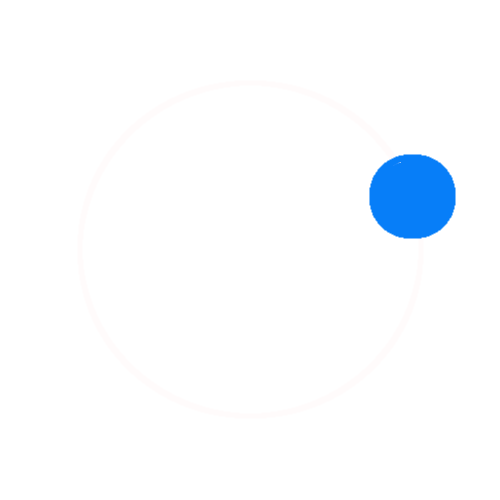
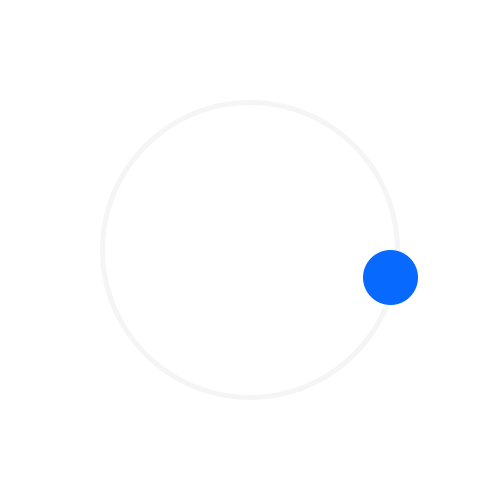
solar system animation.

Changed region(s): [[0.72, 0.3, 0.93, 0.63]]

diff --git a/client/css/all_css.css b/client/css/all_css.css
@@ -103,7 +103,7 @@ p.terminal-text {
 #showoff {
 	height: 100%;
 	width: 100%;
-	box-shadow: 60px 60px 60px 60px #00d2ff; 
+	box-shadow: 60px 60px 60px 60px #00d2ff;
 	border: 2px solid #00d2ff;
 }
 
@@ -118,10 +118,10 @@ p.terminal-text {
 @keyframes floating {
     from { transform: translate(0,  0px); }
     65%  { transform: translate(0, 15px); }
-    to   { transform: translate(0, -0px); }    
+    to   { transform: translate(0, -0px); }
 }
 
-.floating {  
+.floating {
     animation-name: floating;
     animation-duration: 3s;
     animation-iteration-count: infinite;
@@ -134,7 +134,7 @@ p.terminal-text {
 #my-story {
 	width: 	100%;
 	overflow: hidden;
-	box-shadow: 100px 60px 60px 60px #00d2ff; 
+	box-shadow: 100px 60px 60px 60px #00d2ff;
 	background-size: cover;
 	background-repeat: no-repeat;
 
@@ -146,54 +146,71 @@ p.terminal-text {
 canvas {
   position: absolute;
   width: 100%;
-  height: 80%;
+  height: 100%;
   background: #111a22;
+}
+
+#mars-pic, #earth-pic {
+	position: relative;
+	animation-name: spin;
+	animation-duration: 4000ms;
+	animation-iteration-count: infinite;
+	animation-timing-function: linear;
+	overflow: hidden;
 }
 
 #mars {
 	z-index: 5;
-	position: absolute;
-    animation-name: spin;
-    animation-duration: 4000ms;
-    animation-iteration-count: infinite;
-    animation-timing-function: linear;
-    overflow: hidden;
+	position: relative;
+	margin-bottom: -100px;
 }
 
 #earth {
 	z-index: 4;
-	position: absolute;
-	margin-top: -500px;
-    animation-name: spin;
-    animation-duration: 4000ms;
-    animation-iteration-count: infinite;
-    animation-timing-function: linear;
+	position: relative;
+	margin-top: -505px;
 }
-
 #sun {
 	z-index: 3;
-	position: absolute;
-	margin-top: -500px;
-	animation-name: spin;
-    animation-duration: 4000ms;
-    animation-iteration-count: infinite;
-    animation-timing-function: linear;
+	position: relative;
+	margin-top: -505px;
 }
 
 #solar-container {
 	padding-top: 20px;
 	margin: 50px auto 0 auto;
 	z-index: 4;
-	position: absolute;
-	left: 38%;
-	right: 30%;
 }
 
-@keyframes spin { 
-    from { 
-        transform: rotate(0deg); 
-    } to { 
-        transform: rotate(360deg); 
+#solar-writing {
+	position: relative;
+	z-index: 5;
+}
+
+.solar-text {
+	font-weight: 300;
+	font-size: 30px;
+	z-index: 5
+}
+
+.text-container {
+	background-color: rgba(5, 5, 5, 0.3);
+	max-width: 325px;
+}
+
+.background-shade::after {
+	width: 100%;
+	height: 100%;
+	position: relative;
+	opacity: 0.7;
+	z-index: 4
+}
+
+@keyframes spin {
+    from {
+        transform: rotate(0deg);
+    } to {
+        transform: rotate(360deg);
     }
 }
 

diff --git a/client/index.html b/client/index.html
@@ -22,7 +22,7 @@
 	  	<script src="js/index_js.js"></script>
 	</head>
 	<body>
-		<header class="grey lighter-3">
+		<header class="grey darken-1">
 
 			<div id="header-one" class="row center-align">
 				<div id="polymad-image-cont" class="col s12 center-align">
@@ -42,14 +42,14 @@
 
 		</div>
 
-		<div id="showoff" class="grey darken-3">
+		<div id="showoff" class="grey darken-4">
 			<div class="container">
 			<div class="row center-align">
 				<div id="skill-animation" class="col s12 m8 l5 center-align">
 					<p class="terminal-text left-align">
 						<span class="red-text text-lighten-1 terminal-lead">
 							twomasx@polymad</span>:<span class="blue-text text-darken-2 terminal-lead">$</span>
-						<span id="target-mark"></span><span id="target">./neural_query find -logic</span><span id="target-two"></span><span id="target-cursor"></span> 
+						<span id="target-mark"></span><span id="target">./neural_query find -logic</span><span id="target-two"></span><span id="target-cursor"></span>
 
 					</p>
 				</div>
@@ -64,16 +64,31 @@
 		<canvas class="center-align" id="space"></canvas>
 
 			<div id="solar-container">
-			<div class="" id="mars">
-				<img src="../images/mars_polymad.png">
-				<div class="" id="earth">
-					<img src="../images/earth_polymad.png">
+			<div class="container center-align">
+			<div class="row">
+			<div class="col s12 center-align" id="mars">
+				<img id="mars-pic" src="../images/mars_polymad.png">
+				<div class="center-align" id="earth">
+					<img id="earth-pic" src="../images/earth_polymad.png">
 					<div class="center-align" id="sun">
-						<img src="../images/sun_polymad.png">
+						<img id="sun-pic" src="../images/sun_polymad.png">
 					</div>
 				</div>
 			</div>
+		</div>
+		<div id="solar-writing" class="row center-align">
+			<div class="s12">
+				<div class="text-container">
+				<p class="solar-text white-text left-align">
+					The universe created us.</br>
+					We created civilization.<br/>
+					I make visions a reality.
+				</p>
 			</div>
+			</div>
+		</div>
+		</div>
+		</div>
 		</div>
 	</body>
 </html>
